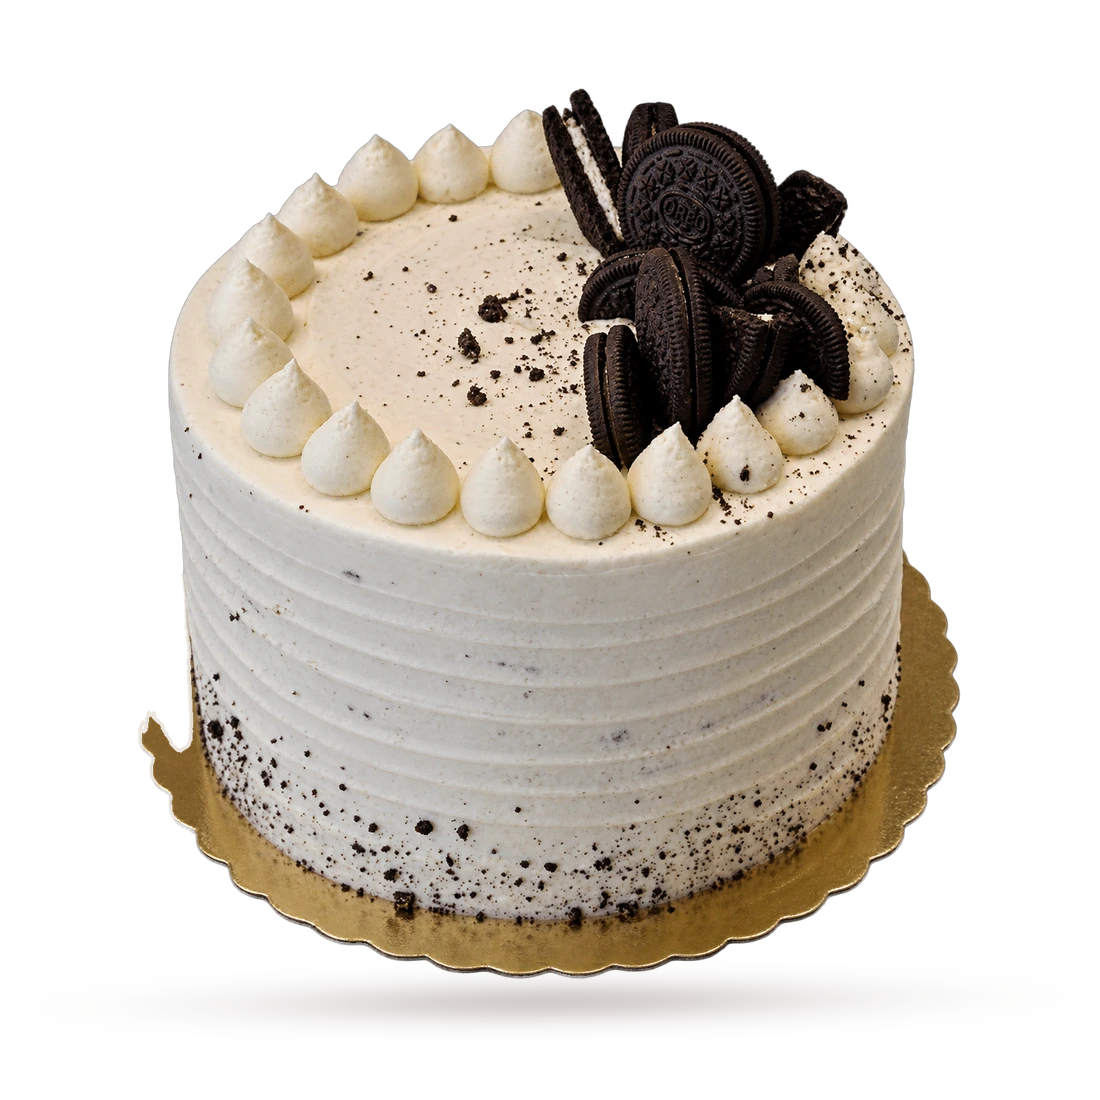
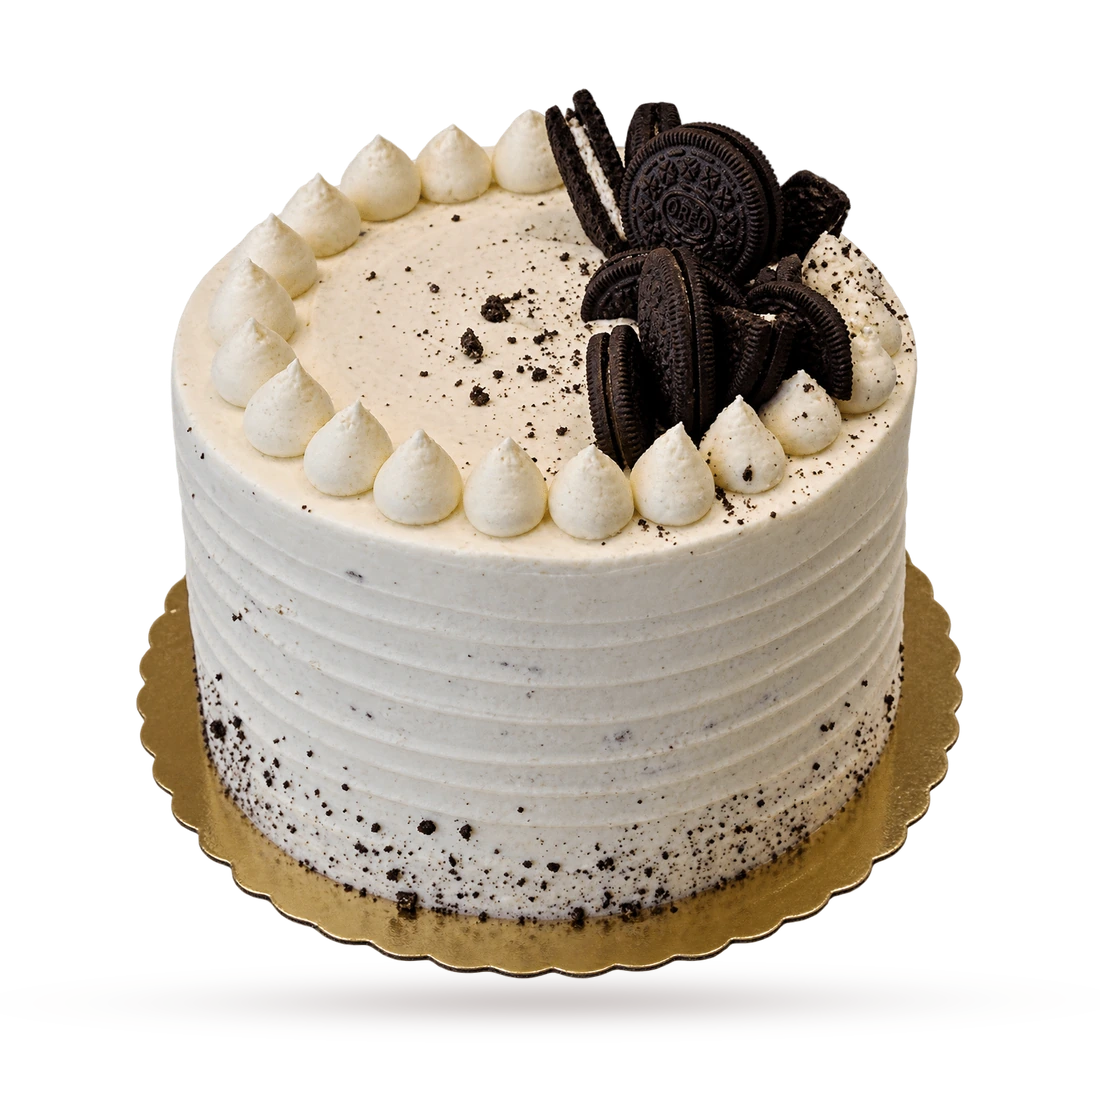
Pasteles: base dorada completa en Vanilla Raspberry, Oreo Mousse y Carrot Cake; borde inferior del Biscoff Cheesecake

diff --git a/index.html b/index.html
@@ -365,7 +365,7 @@ const PHOTOS={choc_strawberries:1,carrot_cake:2,oreo_mousse:2,vanilla_raspberry:
 P.forEach(p => { if (SEASONAL[p.id]) p.seasonal = true; if (PHOTOS[p.id]){ p.photo = true; p.views = PHOTOS[p.id]; } });
 
 
-const BUILD = '202611091721';
+const BUILD = '202611091850';
 let lang = 'es', cat = 'cupcakes', tag = null, current = -1, view = 'out', list = [];
 try { const s = JSON.parse(localStorage.getItem('ytb-cat') || '{}'); if (s.lang) lang = s.lang; } catch(e) {}
 const $ = id => document.getElementById(id);
